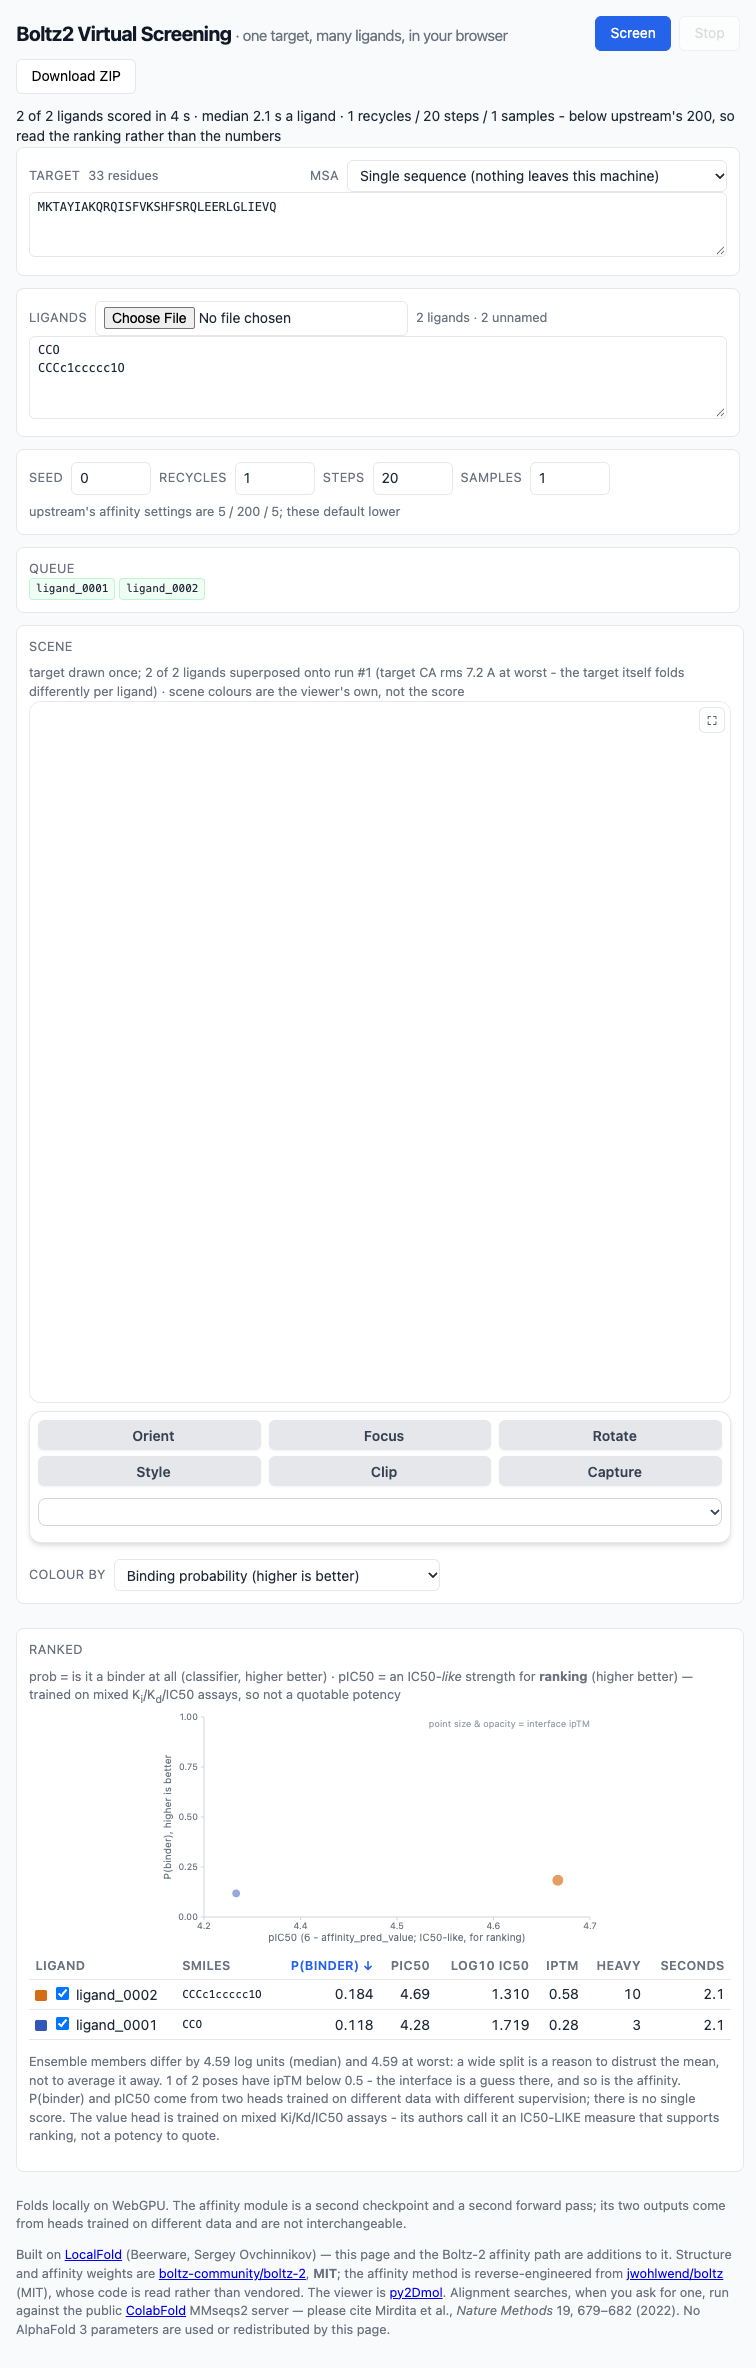
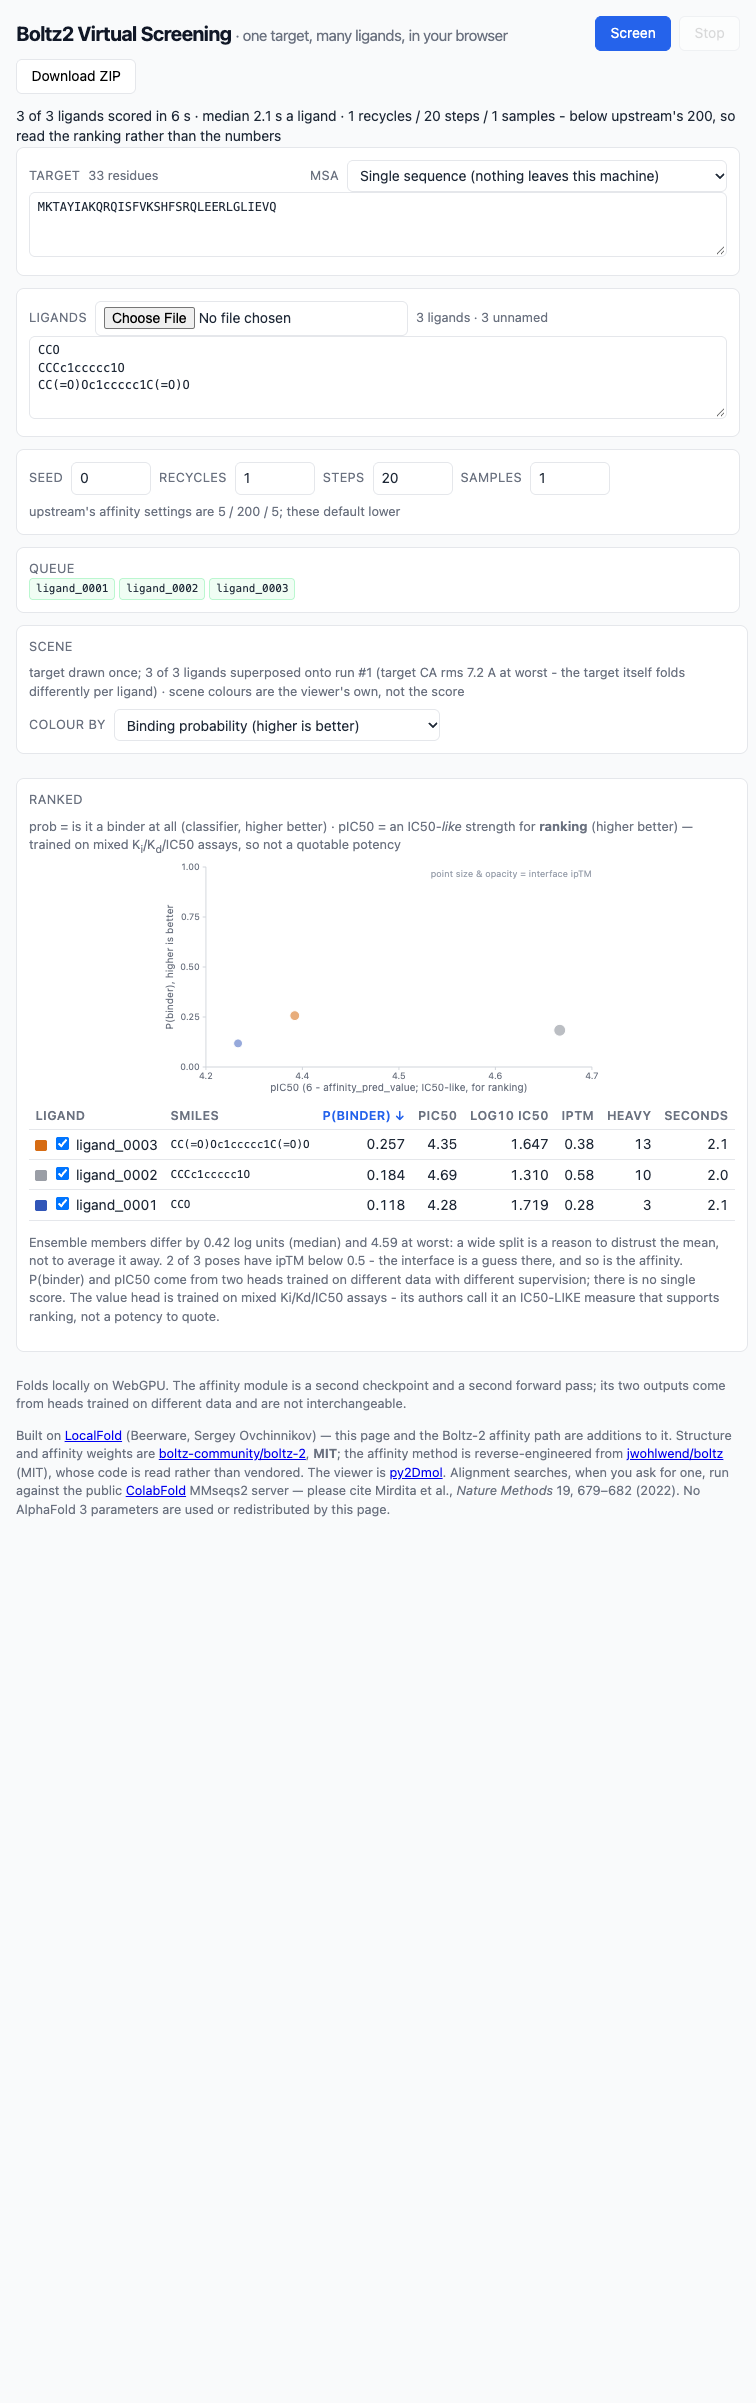
The 3D scene: one fault fixed, the second localised, and the gate that missed it
🔴 STILL BLANK. Fixed: py2Dmol's subtree is copied from index.html with
`display: none` and only index.html un-hid it, so the container was never
shown. drawScene reveals it BEFORE handing over the structure (py2Dmol fits its
camera at ingest, reading the canvas size, and a canvas inside `display: none`
is 0x0), re-asserts after the loader settles, and pairs
_updateCanvasDimensions() with render() as the vendor's own ResizeObserver
does. Measured: display flex, canvas 705x705, clientWidth 705 instead of 0.

Not fixed: py2Dmol accepts the file, resolves without rejecting, and registers
nothing - `{objectsLoaded: 1, structureCount: 1, framesAdded: 0}` with
`renderer.coords: array(0)` and an empty structure picker, from a 284-line
well-formed PDB. An object with no FRAME has no coordinates to draw.

Two hypotheses tried and REVERTED because neither moved framesAdded: a
_scores.json beside the PDB (the only structural difference from index.html's
working call) and wrapping the scene in MODEL/ENDMDL (py2Dmol delimits frames on
MODEL records). Recorded in docs/MEASURED.md so neither is tried a third time,
along with the confound in those numbers: the probe's `loader says:` is its OWN
second load of the same text, and a duplicate object may legitimately report
framesAdded 0. Capture the PAGE's first load result next.

🔴 AND THE GATE THAT SHOULD HAVE CAUGHT THIS NOW EXISTS. screen-in-page.py
asserts the computed style, the canvas's drawing buffer and
[…]

diff --git a/web/screen.js b/web/screen.js
@@ -243,6 +243,11 @@ function drawScene() {
   }
   parts.push("END");
   const pdb = parts.join("\n");
+  // 🔴 EXPOSED FOR THE PROBE, which re-loads this exact text through
+  // `py2dmolLoadFiles` and prints the loader's own counters. That is what
+  // showed the scene is an object with no FRAME - see the blank-scene note in
+  // docs/MEASURED.md - and the diagnosis is not reproducible without it.
+  globalThis.__scenePdb = pdb;
   const file = (name, text) => ({ name, readAsync: () => Promise.resolve(text) });
   try {
     // 🔴 REVEALED **BEFORE** THE LOAD, AND THAT ORDER IS THE WHOLE FIX. py2Dmol

diff --git a/tools/screen-in-page.py b/tools/screen-in-page.py
@@ -239,11 +239,78 @@ def main():
           };
         })()""")
         print("viewer:", viewer)
+        # 🔴 py2Dmol'S OWN STATE, because every outside symptom is consistent
+        # with "the loader accepted the file and registered nothing": the
+        # container is visible and sized, the promise resolves, no error is
+        # reported, and the structure picker is empty. Walk the registry rather
+        # than guess which field holds the structures.
+        print("pdb head:", cdp.evaluate(ws,
+              "(globalThis.__scenePdb ?? '(none)').split('\\n').slice(0,3)"))
+        print("pdb lines:", cdp.evaluate(ws,
+              "(globalThis.__scenePdb ?? '').split('\\n').length"))
+        # 🔴 THE LOADER'S OWN RETURN VALUE. processFiles reports
+        # {objectsLoaded, framesAdded, structureCount}; the renderer holds
+        # coords: array(0), so it registered nothing from a file it accepted
+        # without error, and only these counts say at which step it gave up.
+        print("loader says:", cdp.evaluate(ws, """(async () => {
+          const text = globalThis.__scenePdb;
+          if (!text) return 'no scene pdb';
+          const f = { name: 'probe.pdb', readAsync: () => Promise.resolve(text) };
+          try { return await globalThis.py2dmolLoadFiles([f]); }
+          catch (e) { return 'threw: ' + (e?.message ?? e); }
+        })()"""))
+        print("registry:", cdp.evaluate(ws, """(() => {
+          const reg = globalThis.py2dmol_viewers ?? {};
+          const keys = Object.keys(reg);
+          const out = { viewers: keys };
+          const v = reg[keys[0]];
+          if (!v) return out;
+          out.viewerKeys = Object.keys(v);
+          const describe = (o) => {
+            if (o === null || o === undefined) return String(o);
+            if (Array.isArray(o)) return `array(${o.length})`;
+            if (o instanceof Map) return `map(${o.size})`;
+            if (typeof o === 'object') return Object.keys(o).slice(0, 14);
+            return typeof o;
+          };
+          out.fields = {};
+          for (const k of Object.keys(v)) out.fields[k] = describe(v[k]);
+          const r = v.renderer;
+          if (r) {
+            out.rendererFields = {};
+            for (const k of Object.keys(r)) out.rendererFields[k] = describe(r[k]);
+          }
+          const picker = document.querySelector('#viewer-container select');
+          out.pickerOptions = picker
+            ? [...picker.options].map((o) => o.value) : 'no select';
+          return out;
+        })()"""))
         if viewer["display"] in ("none", "missing"):
             failures.append(f"the 3D viewer is {viewer['display']} - a blank scene")
         if viewer["width"] < 2 or viewer["height"] < 2:
             failures.append("the viewer canvas has no drawing buffer"
                             f" ({viewer['width']}x{viewer['height']})")
+        # 🔴 AND DOES THE RENDERER ACTUALLY HOLD THE STRUCTURE? This is the
+        # assertion test/py2dmol-scaffold.test.js says belongs here - "the
+        # authority on what is required is tools/screen-in-page.py, which
+        # asserts at RUNTIME that window.py2dmol_viewers is non-empty and that
+        # THE SCENE DREW" - and what was actually asserted was the scene NOTE's
+        # text, which the page writes from its own bookkeeping whether or not a
+        # single atom reached the viewer. A visible, correctly sized, EMPTY
+        # canvas passed every check for weeks.
+        atoms = cdp.evaluate(ws, """(() => {
+          const reg = globalThis.py2dmol_viewers ?? {};
+          const r = reg[Object.keys(reg)[0]]?.renderer;
+          return { viewers: Object.keys(reg).length,
+                   coords: r?.coords?.length ?? -1,
+                   chains: r?.chains?.length ?? -1 };
+        })()""")
+        print("renderer holds:", atoms)
+        if atoms["viewers"] < 1:
+            failures.append("no py2Dmol viewer was built")
+        if atoms["coords"] < 1:
+            failures.append("the viewer holds no coordinates - the scene is"
+                            f" blank ({atoms})")
 
         if args.screenshot:
             shot = ws.call("Page.captureScreenshot",

diff --git a/docs/MEASURED.md b/docs/MEASURED.md
@@ -251,3 +251,57 @@ The page's own imports are all relative; the harness's was not. Fixing it also
 exposed that the workflow's root-absolute guard matched only DOUBLE quotes, so
 a single-quoted `import('/...')` would have passed the check written to stop
 exactly that. Both fixed, and `dist/` is clean under the wider pattern.
+
+
+## 🔴 OPEN: the screening page's 3D scene is blank (2026-11-10)
+
+Reported by a user. One fault found and fixed, a second found and NOT fixed.
+
+**Fixed:** py2Dmol's DOM is copied into `screen.html` from `index.html` with
+`style="display: none"` on `#viewer-container`, because `index.html` reveals it
+when a fold lands - and this page never did. `drawScene` now reveals it before
+handing over the structure (py2Dmol fits its camera at ingest time, reading the
+canvas size, and a canvas laid out inside `display: none` is 0x0), re-asserts
+after the loader settles, and pairs `_updateCanvasDimensions()` with
+`render()` the way the vendor's own ResizeObserver does. Measured: the container
+is now `display: flex` with the canvas at 705x705 and `clientWidth` 705 rather
+than 0.
+
+**Still blank, and here is exactly how far it is localised.** py2Dmol accepts
+the file, resolves without rejecting, and registers NOTHING:
+
+| measurement | value |
+|---|---|
+| `py2dmolLoadFiles` return | `{objectsLoaded: 1, structureCount: 1, framesAdded: 0}` |
+| `renderer.coords` | `array(0)` |
+| `renderer.chains`, `plddts` | `array(0)` |
+| `renderer._framedObjects` | `[]` |
+| the structure picker's options | `[]` |
+| the scene PDB itself | 284 lines, well-formed `ATOM` records |
+
+So an object is created with **no frame**, and a structure with no frame has no
+coordinates to draw. Everything observable from outside - container visible,
+canvas sized, promise resolved, no error reported - is consistent with success,
+which is why this survived.
+
+🔴 **TWO THINGS TRIED AND REVERTED, because neither moved `framesAdded`**: a
+`<stem>_scores.json` beside the PDB (the only structural difference from
+`index.html`'s working call), and wrapping the scene in one `MODEL`/`ENDMDL`
+block (py2Dmol's parser delimits frames on `MODEL` records, and LocalFold's own
+PDBs arrive as a trajectory). Recorded so neither is tried a third time.
+
+**The next measurement**, and it is a confound in the ones above:
+`loader says:` in the probe is the probe's OWN second load of the same text, and
+py2Dmol may legitimately report `framesAdded: 0` for an object it already holds.
+Capture the PAGE's first load result - assign the return of `load(...)` in
+`drawScene` to a global and read THAT - before concluding anything further about
+the frame count.
+
+**And the gate that should have caught it now exists.**
+`tools/screen-in-page.py` asserts the computed style, the canvas's drawing
+buffer, and `renderer.coords.length > 0`. What it asserted before was the scene
+NOTE's text, which the page writes from its own bookkeeping whether or not one
+atom reached the viewer - so a blank box reported "3 of 3 ligands superposed
+onto run #1". `test/py2dmol-scaffold.test.js` already said this probe was "the
+authority on what is required... asserts at RUNTIME that the scene drew"; it
+did not.
